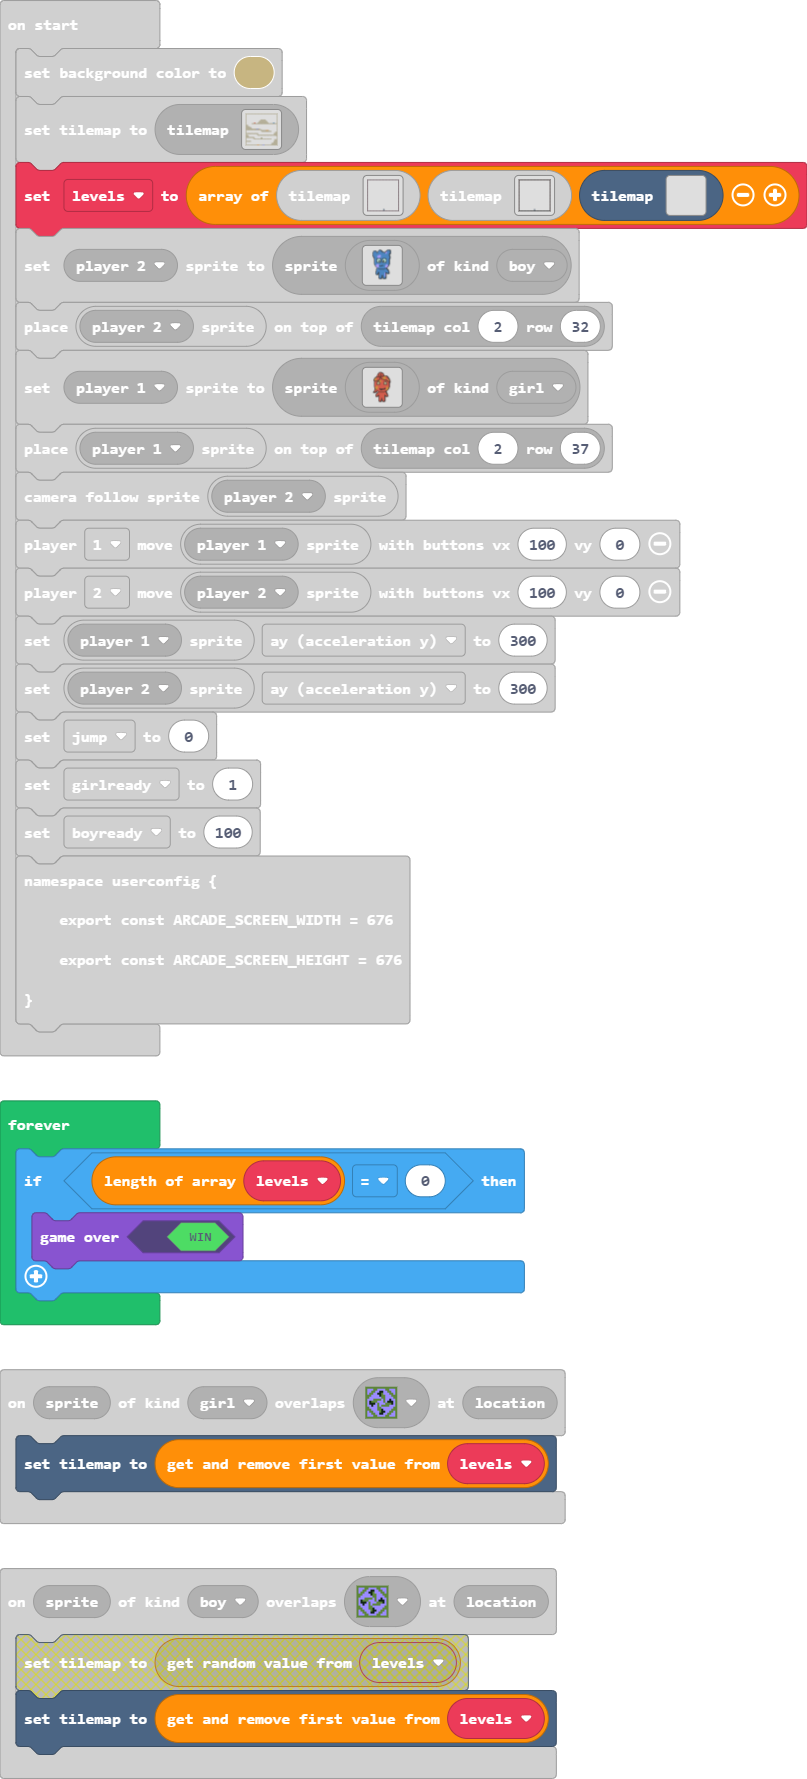
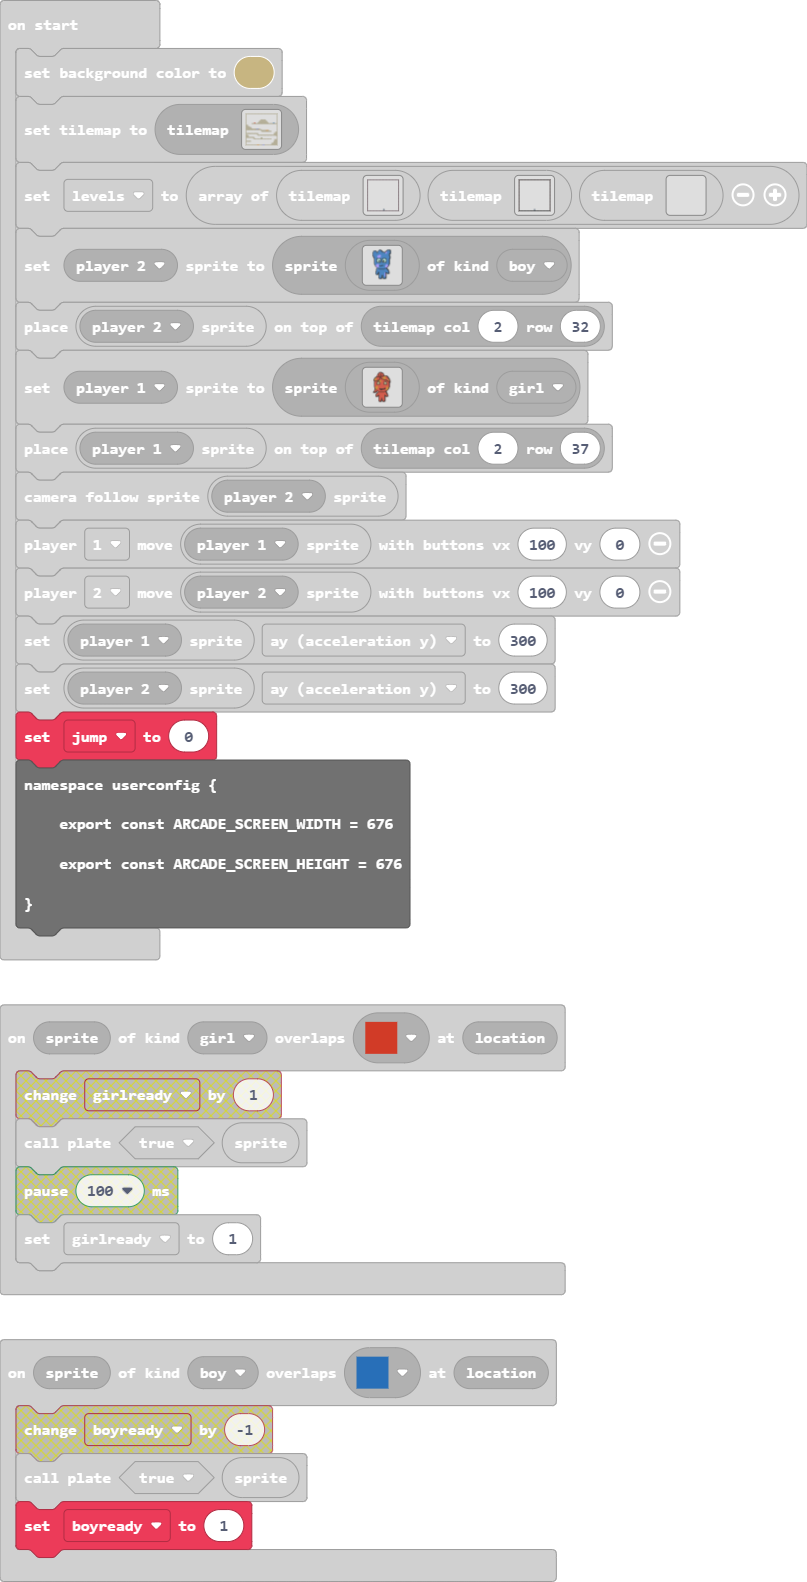
Update main.blocks, main.ts

diff --git a/main.ts b/main.ts
@@ -17,7 +17,7 @@ scene.onOverlapTile(SpriteKind.girl, assets.tile`myTile2`, function (sprite, loc
     tiles.setWallAt(tiles.getTileLocation(6, 26), false)
 })
 scene.onOverlapTile(SpriteKind.boy, assets.tile`myTile0`, function (sprite, location) {
-    boyready += -1
+    boyready = 1
     plate(true, sprite)
 })
 scene.onOverlapTile(SpriteKind.girl, assets.tile`myTile1`, function (sprite, location) {
@@ -42,9 +42,8 @@ controller.player1.onButtonEvent(ControllerButton.Up, ControllerButtonEvent.Pres
     pause(1000)
 })
 scene.onOverlapTile(SpriteKind.girl, assets.tile`myTile`, function (sprite, location) {
-    girlready += 1
+    girlready = 1
     plate(true, sprite)
-    pause(100)
 })
 function plate (bool: boolean, sprite: Sprite) {
     if (boyready == girlready) {
@@ -653,8 +652,8 @@ controller.player1.onButtonEvent(ControllerButton.Left, ControllerButtonEvent.Pr
     characterAnimations.rule(Predicate.MovingLeft)
     )
 })
-let boyready = 0
 let girlready = 0
+let boyready = 0
 let jump = 0
 let levels: tiles.TileMapData[] = []
 scene.setBackgroundColor(13)
@@ -670,8 +669,6 @@ controller.player2.moveSprite(mp.getPlayerSprite(mp.playerSelector(mp.PlayerNumb
 mp.getPlayerSprite(mp.playerSelector(mp.PlayerNumber.One)).ay = 300
 mp.getPlayerSprite(mp.playerSelector(mp.PlayerNumber.Two)).ay = 300
 jump = 0
-girlready = 1
-boyready = 100
 namespace userconfig {
     export const ARCADE_SCREEN_WIDTH = 676
     export const ARCADE_SCREEN_HEIGHT = 676
